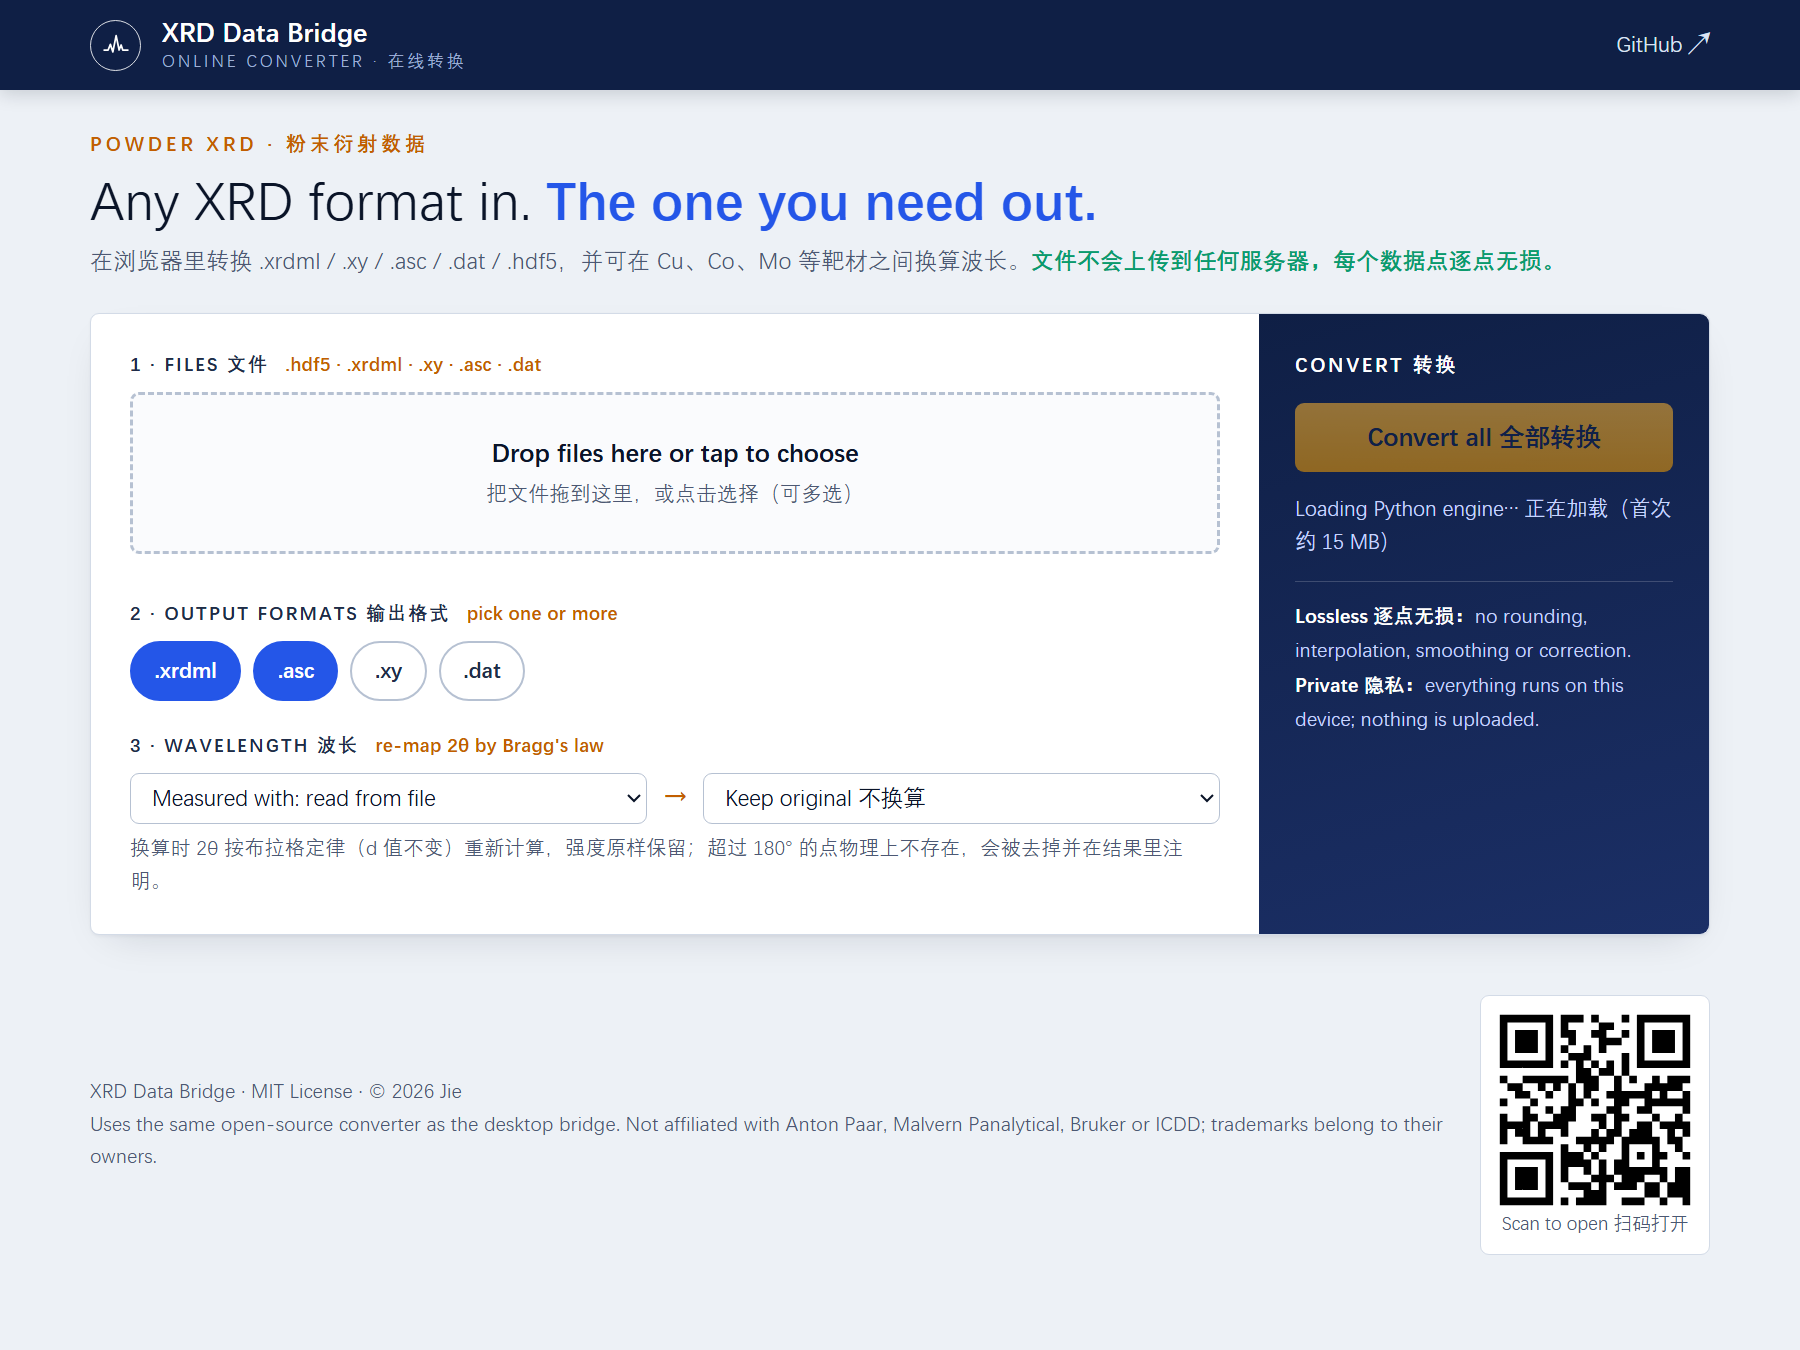
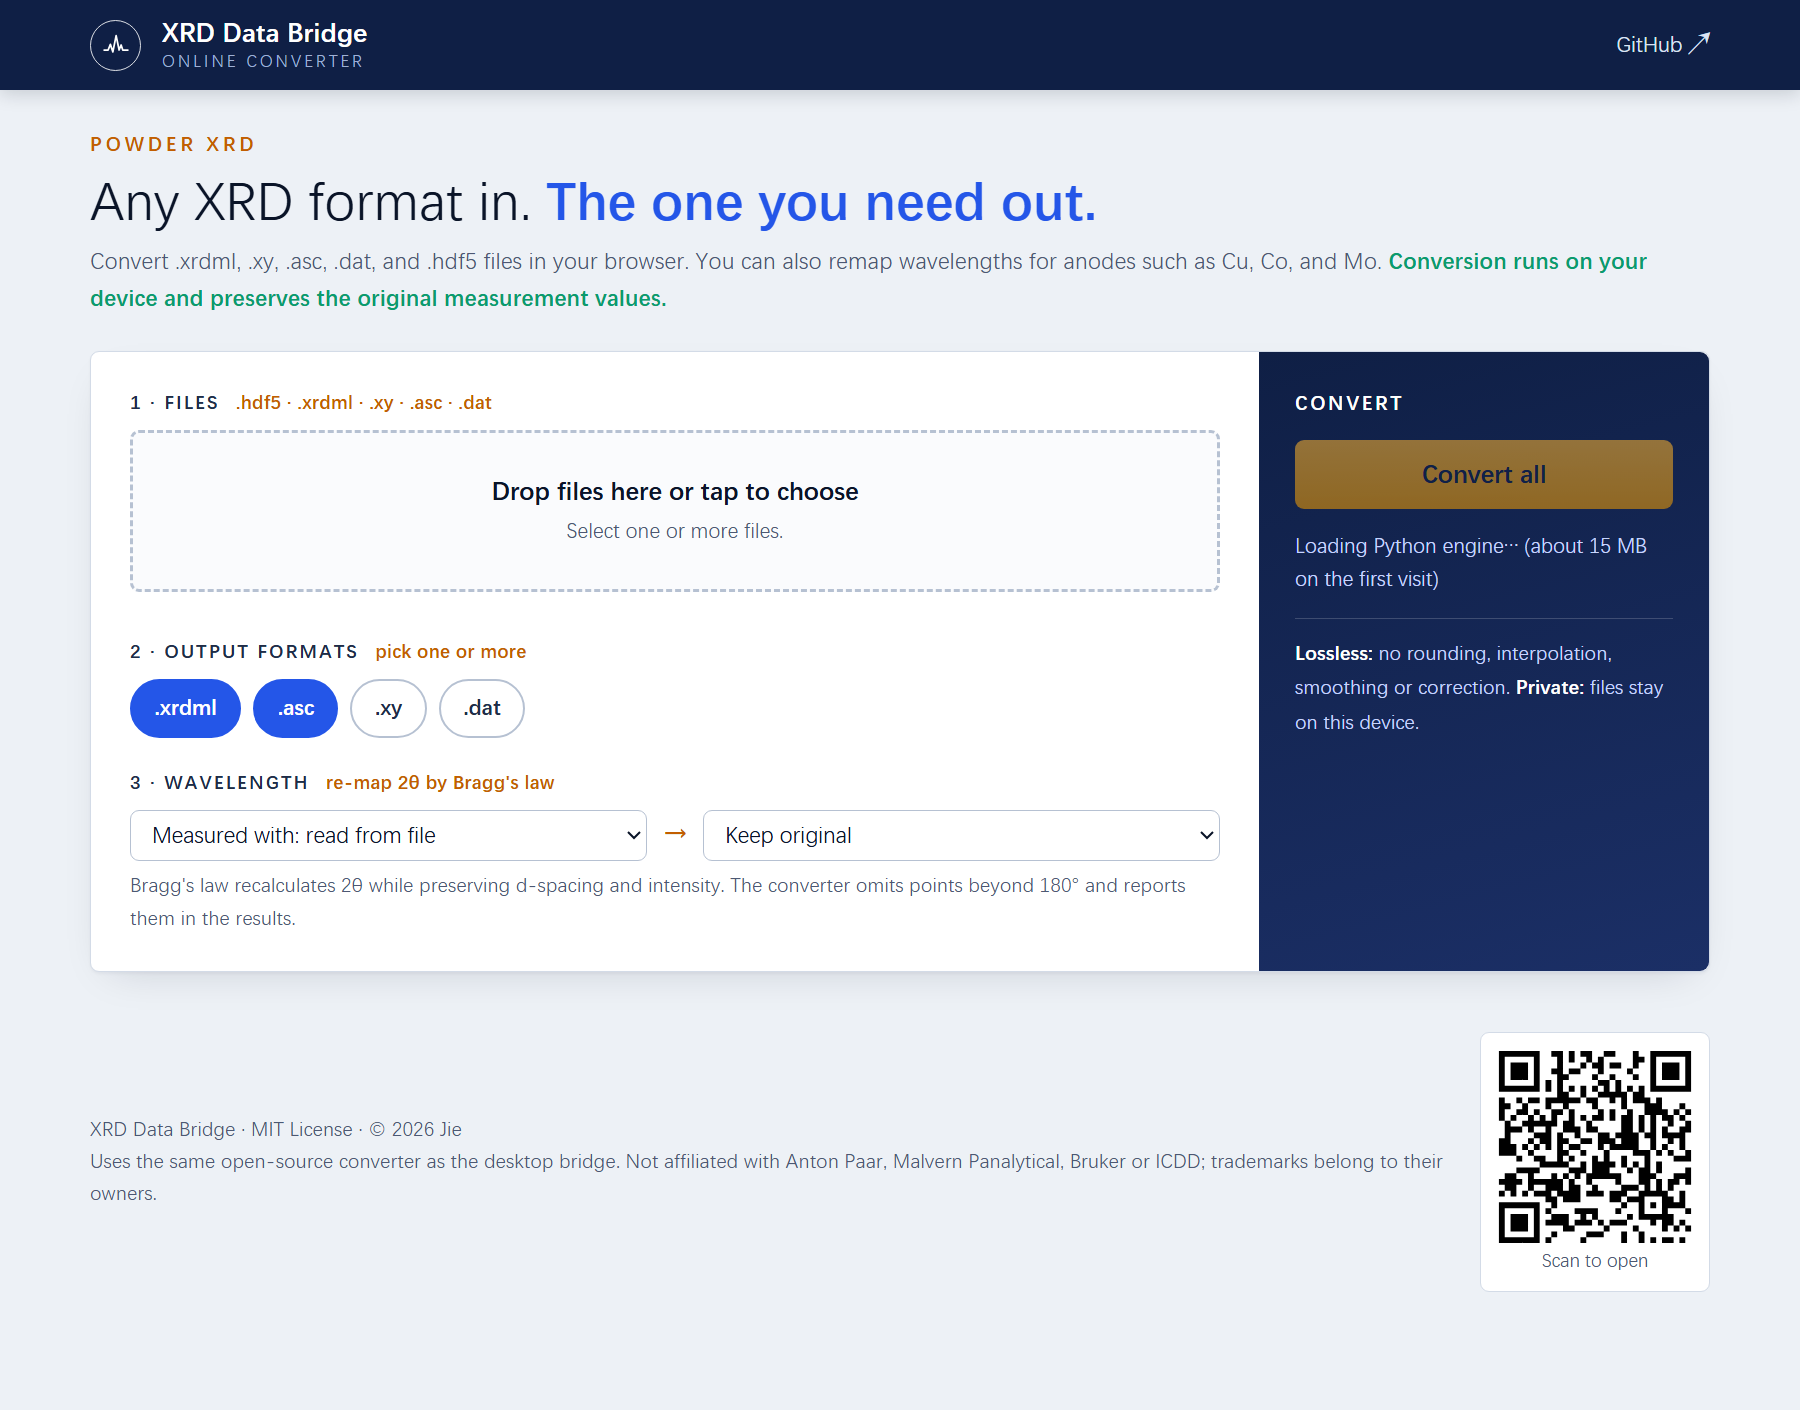
Use English on the online converter and README

diff --git a/web/index.html b/web/index.html
@@ -1,5 +1,5 @@
 <!DOCTYPE html>
-<html lang="zh-CN">
+<html lang="en">
 <head>
   <meta charset="UTF-8" />
   <meta name="viewport" content="width=device-width, initial-scale=1.0" />
@@ -7,7 +7,7 @@
   <meta name="description" content="Convert powder XRD files (.xrdml, .xy, .asc, .dat, .hdf5) and re-map anode wavelengths in your browser. Lossless; files never leave your computer." />
   <style>
     :root {
-      --font: "DengXian", "等线", "Microsoft YaHei UI", "Microsoft YaHei", "PingFang SC", "Noto Sans CJK SC", system-ui, sans-serif;
+      --font: "DengXian", system-ui, sans-serif;
       --paper: #edf1f6; --card: #ffffff; --line: #d3dbe7; --line-soft: #e5eaf1; --line-strong: #b6c1d2;
       --ink: #0a1428; --ink-2: #1f2c48; --muted: #4c5873; --faint: #929bb0;
       --navy: #0f1f45; --navy-2: #1b2f66; --blue: #2456e8; --blue-soft: #e6edff;
@@ -98,29 +98,29 @@
       <span class="mark" aria-hidden="true">
         <svg width="20" height="20" viewBox="0 0 24 24" fill="none" stroke="#fff" stroke-width="1.4" stroke-linecap="round" stroke-linejoin="round"><path d="M2.5 16h3.2l1.8-4.5 2 6 2.6-13 2.4 11.5 1.6-4 1.3 4H21.5"/></svg>
       </span>
-      <span class="brand">XRD Data Bridge<small>Online converter · 在线转换</small></span>
+      <span class="brand">XRD Data Bridge<small>Online converter</small></span>
       <a href="https://github.com/jliu-science/XRD-data-bridge" target="_blank" rel="noopener">GitHub ↗</a>
     </div>
   </header>
 
   <main>
-    <div class="eyebrow">Powder XRD · 粉末衍射数据</div>
+    <div class="eyebrow">Powder XRD</div>
     <h1>Any XRD format in. <b>The one you need out.</b></h1>
-    <p class="lead">在浏览器里转换 .xrdml / .xy / .asc / .dat / .hdf5，并可在 Cu、Co、Mo 等靶材之间换算波长。<b>文件不会上传到任何服务器，每个数据点逐点无损。</b></p>
+    <p class="lead">Convert .xrdml, .xy, .asc, .dat, and .hdf5 files in your browser. You can also remap wavelengths for anodes such as Cu, Co, and Mo. <b>Conversion runs on your device and preserves the original measurement values.</b></p>
 
     <section class="card grid">
       <div class="pane">
         <div>
-          <span class="label">1 · Files 文件 <em>.hdf5 · .xrdml · .xy · .asc · .dat</em></span>
+          <span class="label">1 · Files <em>.hdf5 · .xrdml · .xy · .asc · .dat</em></span>
           <label class="drop" id="drop">
             <input id="fileInput" type="file" multiple accept=".hdf5,.h5,.xrdml,.xy,.xye,.dat,.asc" hidden />
             <strong>Drop files here or tap to choose</strong>
-            <span>把文件拖到这里，或点击选择（可多选）</span>
+            <span>Select one or more files.</span>
           </label>
           <ul class="files" id="fileList"></ul>
         </div>
         <div>
-          <span class="label">2 · Output formats 输出格式 <em>pick one or more</em></span>
+          <span class="label">2 · Output formats <em>pick one or more</em></span>
           <div class="chips" id="formats">
             <label class="chip"><input type="checkbox" value="xrdml" checked /><span>.xrdml</span></label>
             <label class="chip"><input type="checkbox" value="asc" checked /><span>.asc</span></label>
@@ -129,7 +129,7 @@
           </div>
         </div>
         <div>
-          <span class="label">3 · Wavelength 波长 <em>re-map 2θ by Bragg's law</em></span>
+          <span class="label">3 · Wavelength <em>re-map 2θ by Bragg's law</em></span>
           <div class="row">
             <select id="srcAnode" title="Anode the data was measured with">
               <option value="auto">Measured with: read from file</option>
@@ -142,7 +142,7 @@
             </select>
             <span class="arrow">→</span>
             <select id="tgtAnode" title="Convert to this anode">
-              <option value="">Keep original 不换算</option>
+              <option value="">Keep original</option>
               <option value="Cu">Cu Kα1 · 1.5406 Å</option>
               <option value="Co">Co Kα1 · 1.7890 Å</option>
               <option value="Mo">Mo Kα1 · 0.7093 Å</option>
@@ -151,27 +151,27 @@
               <option value="Ag">Ag Kα1 · 0.5594 Å</option>
             </select>
           </div>
-          <div class="hint">换算时 2θ 按布拉格定律（d 值不变）重新计算，强度原样保留；超过 180° 的点物理上不存在，会被去掉并在结果里注明。</div>
+          <div class="hint">Bragg's law recalculates 2θ while preserving d-spacing and intensity. The converter omits points beyond 180° and reports them in the results.</div>
         </div>
       </div>
       <aside class="run">
-        <div class="k">Convert 转换</div>
-        <button class="go" id="goBtn" disabled>Convert all 全部转换</button>
-        <div class="status" id="status">Loading Python engine… 正在加载（首次约 15 MB）</div>
-        <div class="safe"><b>Lossless 逐点无损：</b>no rounding, interpolation, smoothing or correction. <b>Private 隐私：</b>everything runs on this device; nothing is uploaded.</div>
+        <div class="k">Convert</div>
+        <button class="go" id="goBtn" disabled>Convert all</button>
+        <div class="status" id="status">Loading Python engine… (about 15 MB on the first visit)</div>
+        <div class="safe"><b>Lossless:</b> no rounding, interpolation, smoothing or correction. <b>Private:</b> files stay on this device.</div>
       </aside>
     </section>
 
     <div id="resultsWrap" hidden>
-      <h2>Results 结果</h2>
+      <h2>Results</h2>
       <section class="card">
         <div class="results-head">
           <span id="summary" class="note"></span>
-          <button class="btn blue" id="zipBtn">Download all (.zip) 打包下载</button>
+          <button class="btn blue" id="zipBtn">Download all (.zip)</button>
         </div>
         <div style="overflow-x:auto;">
           <table>
-            <thead><tr><th>Input 输入</th><th>Points 点数</th><th>Downloads 下载</th><th>Notes 说明</th></tr></thead>
+            <thead><tr><th>Input</th><th>Points</th><th>Downloads</th><th>Notes</th></tr></thead>
             <tbody id="resultBody"></tbody>
           </table>
         </div>
@@ -179,7 +179,7 @@
     </div>
 
     <div id="previewWrap" hidden>
-      <h2>Preview 预览 <span class="note" id="previewName" style="font-weight:400;"></span></h2>
+      <h2>Preview <span class="note" id="previewName" style="font-weight:400;"></span></h2>
       <section class="card" style="padding: 14px 16px;"><canvas id="plot"></canvas></section>
     </div>
   </main>
@@ -189,7 +189,7 @@
       XRD Data Bridge · MIT License · © 2026 Jie<br />
       Uses the same open-source converter as the desktop bridge. Not affiliated with Anton Paar, Malvern Panalytical, Bruker or ICDD; trademarks belong to their owners.
     </div>
-    <div class="qr"><div id="qr"></div>Scan to open 扫码打开</div>
+    <div class="qr"><div id="qr"></div>Scan to open</div>
   </footer>
 
   <script src="https://cdnjs.cloudflare.com/ajax/libs/qrcode-generator/1.4.4/qrcode.min.js"></script>
@@ -244,7 +244,7 @@
           py.FS.writeFile(`/work/${mod}`, src);
         }
         py.runPython("import sys; sys.path.insert(0, '/work'); import bridge_web");
-        setStatus("Ready 就绪 — choose files and press Convert.");
+        setStatus("Ready. Choose files and select Convert all.");
         renderFiles();
       } catch (e) {
         setStatus("Could not load the engine (check the internet connection): " + e.message);
@@ -256,16 +256,16 @@
     let lastOutputs = [];
     $("goBtn").addEventListener("click", async () => {
       const formats = [...document.querySelectorAll("#formats input:checked")].map(c => c.value);
-      if (!formats.length) { setStatus("Pick at least one output format 请至少选一种格式"); return; }
+      if (!formats.length) { setStatus("Choose at least one output format."); return; }
       $("goBtn").disabled = true;
       try {
         const names = [...files.keys()];
         if (!h5Loaded && names.some(n => /\.(hdf5|h5)$/i.test(n))) {
-          setStatus("Loading HDF5 support… 正在加载 HDF5 支持");
+          setStatus("Loading HDF5 support…");
           await py.loadPackage(["h5py"]);
           h5Loaded = true;
         }
-        setStatus("Converting… 正在转换");
+        setStatus("Converting…");
         py.runPython("bridge_web.reset_dirs()");
         for (const [n, f] of files) {
           py.FS.writeFile(`/work/in/${n}`, new Uint8Array(await f.arrayBuffer()));
@@ -274,7 +274,7 @@
         const report = JSON.parse(fn(JSON.stringify(names), JSON.stringify(formats), $("srcAnode").value, $("tgtAnode").value, "panalytical_2col"));
         showResults(report);
         if (names.length) showPreview(names[0]);
-        setStatus("Done 完成");
+        setStatus("Done");
       } catch (e) {
         setStatus("Error: " + e.message);
       } finally {
@@ -291,7 +291,7 @@
       lastOutputs = [];
       let nOut = 0, nErr = 0;
       $("resultBody").innerHTML = report.map(r => {
-        if (r.error) { nErr++; return `<tr><td><b>${esc(r.file)}</b></td><td>—</td><td class="bad">Could not read 无法读取</td><td class="note">${esc(r.error)}</td></tr>`; }
+        if (r.error) { nErr++; return `<tr><td><b>${esc(r.file)}</b></td><td>—</td><td class="bad">Could not read</td><td class="note">${esc(r.error)}</td></tr>`; }
         const links = r.outputs.map(o => { lastOutputs.push(o); nOut++; return `<a href="${blobUrl(o)}" download="${esc(o)}">${esc(o)}</a>`; }).join("");
         const pts = r.scans.map(s => s.points_in === s.points_out ? `<span class="ok">${s.points_in} = ${s.points_out}</span>`
           : `${s.points_in} → ${s.points_out}`).join("<br/>");
@@ -300,7 +300,7 @@
           if (s.anode_in !== s.anode_out) notes.push(`${s.anode_in} → ${s.anode_out} (Bragg)` + (s.dropped ? `, ${s.dropped} point(s) beyond 180° removed` : ""));
         });
         r.skipped.forEach(s => notes.push(`skipped .${esc(s.format)}: ${esc(s.reason)}`));
-        return `<tr><td><b>${esc(r.file)}</b></td><td>${pts}</td><td>${links || "—"}</td><td class="note">${notes.join("<br/>") || "every point identical 逐点一致"}</td></tr>`;
+        return `<tr><td><b>${esc(r.file)}</b></td><td>${pts}</td><td>${links || "—"}</td><td class="note">${notes.join("<br/>") || "every point identical"}</td></tr>`;
       }).join("");
       $("summary").textContent = `${nOut} file(s) ready · ${nErr} error(s)`;
       $("zipBtn").disabled = nOut === 0;

diff --git a/README.md b/README.md
@@ -1,9 +1,8 @@
 # XRD Data Bridge
 
 **Lossless powder-XRD format converter for self-driving labs.**
-粉末 XRD 数据格式转换工具：逐点无损，原始数据永不修改。
 
-[**Online converter / 在线转换 →**](https://jliu-science.github.io/XRD-data-bridge/) &nbsp;·&nbsp; [Download for Windows / 下载 Windows 版](https://github.com/jliu-science/XRD-data-bridge/releases/latest)
+[**Online converter →**](https://jliu-science.github.io/XRD-data-bridge/)
 
 | Desktop bridge (lab PC) | Online converter (any device, scan the QR code) |
 | --- | --- |
@@ -11,53 +10,49 @@
 
 ---
 
-## What it does / 功能
+## What it does
 
-- **Reads** 读取: `.hdf5` / `.h5` (e.g. Anton Paar XRDynamic), `.xrdml`, `.xy` / `.xye`, `.asc` (PANalytical 2-column and Rigaku), `.dat`
-- **Writes** 输出: `.xrdml`, `.asc`, `.xy`, `.dat` — choose any combination 任意组合
-- **Wavelength re-mapping** 波长换算: Cu ↔ Co ↔ Mo ↔ Cr ↔ Fe ↔ Ag via Bragg's law (d-spacing preserved, intensities unchanged)
-- **Folder watching** 文件夹监控 (desktop): new scans are converted automatically, user sub-folders are mirrored
-- **Quality check and preview** 质量检查与预览, optional hand-off to HighScore Plus / ICDD Search & Match
+- **Reads**: `.hdf5` / `.h5` (e.g. Anton Paar XRDynamic), `.xrdml`, `.xy` / `.xye`, `.asc` (PANalytical 2-column and Rigaku), `.dat`
+- **Writes**: `.xrdml`, `.asc`, `.xy`, `.dat` — choose any combination
+- **Wavelength re-mapping**: Cu ↔ Co ↔ Mo ↔ Cr ↔ Fe ↔ Ag via Bragg's law (d-spacing preserved, intensities unchanged)
+- **Folder watching** (desktop): new scans are converted automatically, user sub-folders are mirrored
+- **Quality check and preview**, optional hand-off to HighScore Plus / ICDD Search & Match
 
 Coming next: Bruker `.raw` and PANalytical `.rd` (see [notes](xrd_sdl_bridge/docs/BINARY_FORMATS_NOTES.md)).
 
-## Data integrity / 数据完整性
+## Data integrity
 
-- **Every data point is preserved exactly** 每个数据点逐点保留: no rounding, truncation, interpolation, resampling, smoothing or correction. Numbers are written in the shortest form that reads back to the identical value.
-- **Raw files are never modified or overwritten** 原始文件绝不修改或覆盖. Files the bridge writes carry a marker so they are never mistaken for raw data.
+- **Every data point is preserved exactly**: no rounding, truncation, interpolation, resampling, smoothing or correction. Numbers are written in the shortest form that reads back to the identical value.
+- **Raw files are never modified or overwritten**. Files the bridge writes carry a marker so they are never mistaken for raw data.
 - Wavelength re-mapping moves 2θ by design (physics, not error); points beyond 180° cannot exist and are dropped and reported.
-- Verified by automated tests: exact round-trips through every format, SHA-256 checks of the raw folder in every mode. 由自动化测试验证。
+- Verified by automated tests: exact round-trips through every format, SHA-256 checks of the raw folder in every mode.
 
-## Online converter (students, phones) / 在线转换（学生、手机）
+## Online converter (students, phones)
 
 Open **https://jliu-science.github.io/XRD-data-bridge/** or scan the QR code shown at the bottom of that page.
 The page runs the same converter in the browser (via [Pyodide](https://pyodide.org)); **files never leave your device**. The first visit downloads about 15 MB.
 
-打开上面的网址或扫页面底部的二维码即可使用。转换在浏览器里完成，文件不会上传。
+## Desktop bridge (lab PC, Windows)
 
-## Desktop bridge (lab PC, Windows) / 桌面版（实验室电脑）
-
-1. Download `XRD-data-bridge-<version>-win64.zip` from [Releases](https://github.com/jliu-science/XRD-data-bridge/releases) — it includes a portable Python, nothing to install. 下载压缩包，自带 Python，无需安装。
-2. Unzip the **whole folder** anywhere (local disk or network share). 解压整个文件夹。
-3. Double-click `start_xrd_bridge.bat`; the page opens at `http://127.0.0.1:8765`. 双击启动。
+1. Download `XRD-data-bridge-<version>-win64.zip` from [Releases](https://github.com/jliu-science/XRD-data-bridge/releases) — it includes a portable Python, nothing to install.
+2. Unzip the **whole folder** anywhere (local disk or network share).
+3. Double-click `start_xrd_bridge.bat`; the page opens at `http://127.0.0.1:8765`.
 4. Pick the raw data folder and output folder, choose output formats, press **Convert All** or turn on **Live watch**.
 
 Updating: replace the folder but keep your `xrd_sdl_bridge/config.json` (your settings).
-更新时替换文件夹，但保留 `config.json`（你的设置）。
 
-### Running from source / 从源码运行
+### Running from source
 
 ```bash
 pip install -r requirements.txt
 python xrd_sdl_bridge/app.py --open-browser
 ```
 
-### Security / 安全
+### Security
 
 The desktop bridge is a **local-only** service: it serves only `localhost`, every API call needs a random per-launch token embedded in its own page, cross-site requests are rejected, file access is confined to the configured folders, and only HighScore / Data Viewer can be launched. Do not expose it to a network.
-桌面版只供本机使用，请勿开放到网络。
 
-## Development / 开发
+## Development
 
 ```bash
 cd xrd_sdl_bridge
@@ -66,7 +61,7 @@ python ../tools/build_web.py --serve         # online converter at http://127.0.
 python ../tools/make_release.py 1.0.0        # Windows zip (needs ./python portable runtime)
 ```
 
-## License / 许可
+## License
 
 [MIT](LICENSE) © 2026 Jie.
 Bundled third-party components keep their own licenses (Python: PSF; NumPy and h5py: BSD-3-Clause); their license files are included in the release zip.
